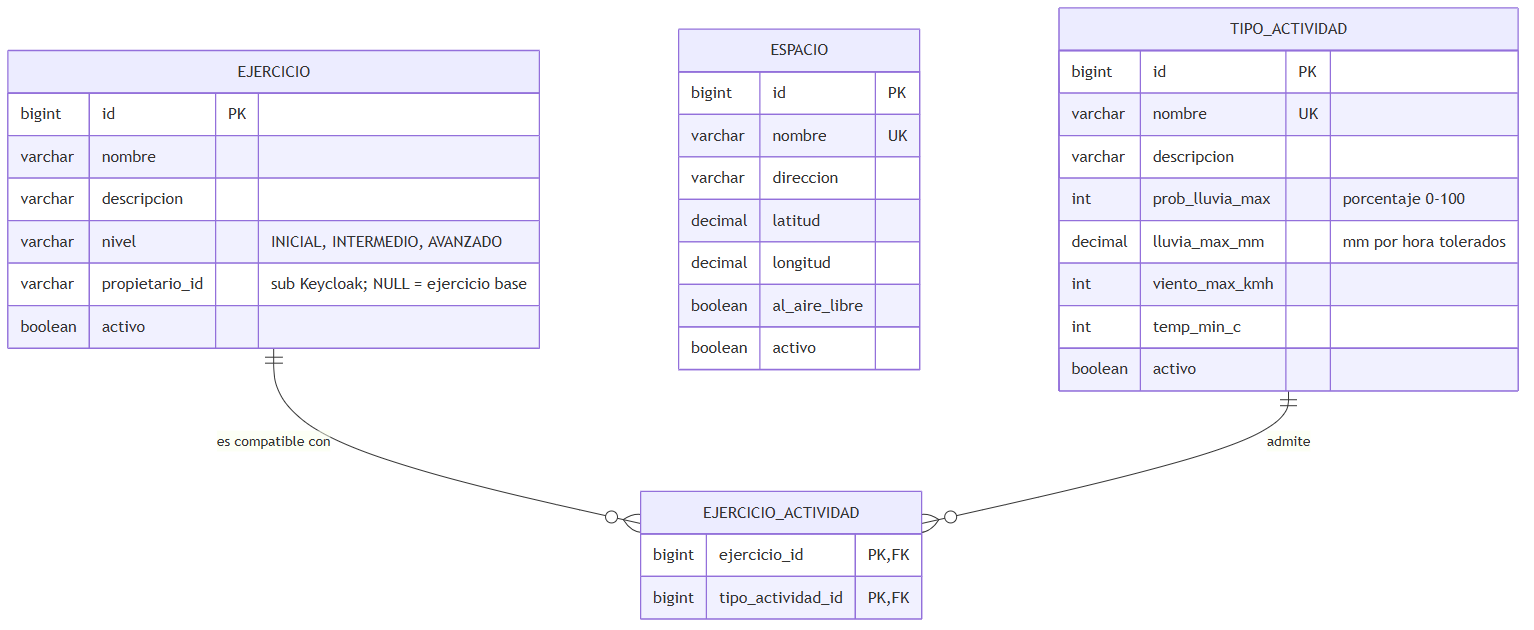
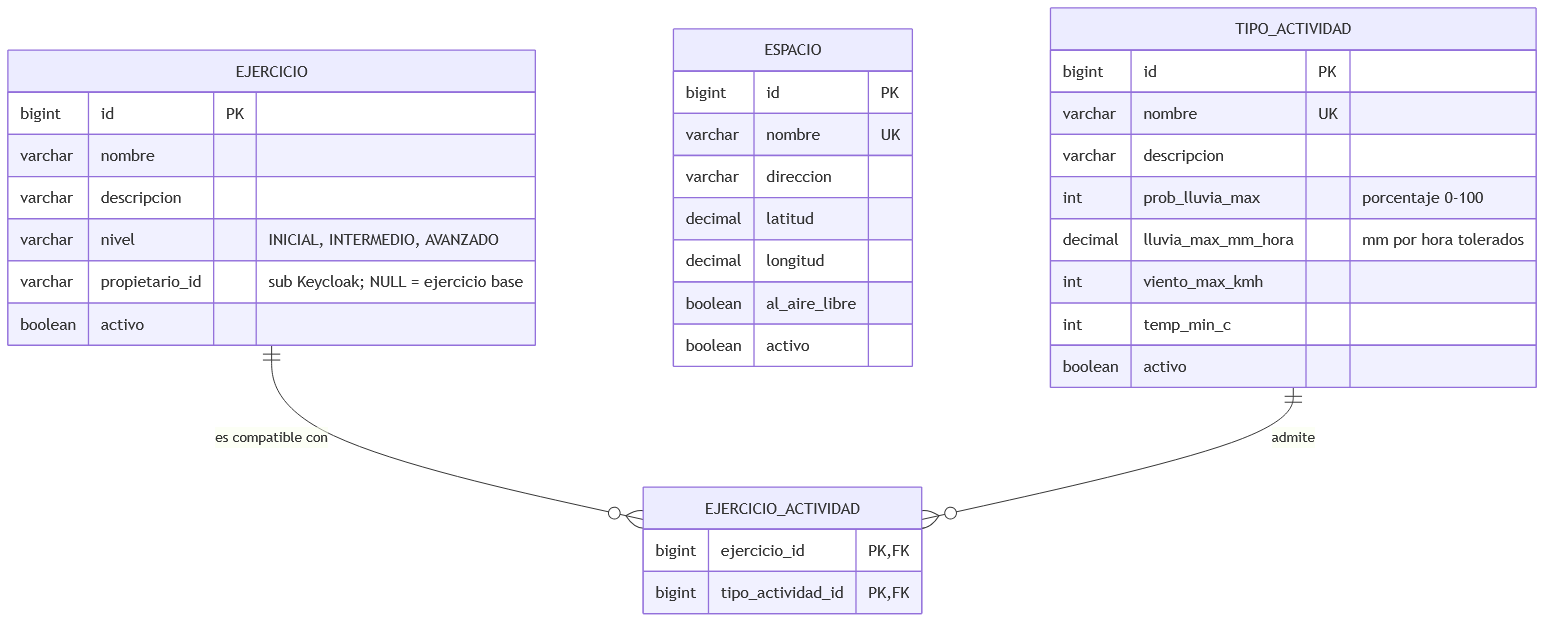
REYNA: nombres de campos de lluvia alineados con la Persona 4
- Actividad: lluviaMaxMm -> lluviaMaxMmHora (columna lluvia_max_mm_hora), obligatorio.
- Pronóstico y escenarios: lluviaMm -> precipitacionMm (precipitacion_mm).
- RN10: margen de EN_RIESGO por mm del 20 % del límite (propuesta y V2).
- DER de actividades y clases regenerados; colección de Postman actualizada.

diff --git a/ms-actividades/src/test/java/ar/edu/utn/frc/climafit/actividades/ActividadesTest.java b/ms-actividades/src/test/java/ar/edu/utn/frc/climafit/actividades/ActividadesTest.java
@@ -21,7 +21,7 @@ class ActividadesTest extends PruebaIntegracion {
 
     private static final String PILATES = """
             {"nombre": "Pilates", "descripcion": "Pilates de suelo al aire libre",
-             "probLluviaMax": 60, "lluviaMaxMm": 0.5, "vientoMaxKmh": 25, "tempMinC": 12}
+             "probLluviaMax": 60, "lluviaMaxMmHora": 0.5, "vientoMaxKmh": 25, "tempMinC": 12}
             """;
 
     @Autowired
@@ -50,7 +50,7 @@ class ActividadesTest extends PruebaIntegracion {
                 .andExpect(status().isOk())
                 .andExpect(jsonPath("$.nombre").value("Yoga"))
                 .andExpect(jsonPath("$.probLluviaMax").value(80))
-                .andExpect(jsonPath("$.lluviaMaxMm").value(0.5))
+                .andExpect(jsonPath("$.lluviaMaxMmHora").value(0.5))
                 .andExpect(jsonPath("$.vientoMaxKmh").value(35))
                 .andExpect(jsonPath("$.tempMinC").value(5))
                 .andExpect(jsonPath("$.activo").value(true));
@@ -66,7 +66,7 @@ class ActividadesTest extends PruebaIntegracion {
                 .andExpect(status().isOk())
                 .andExpect(jsonPath("$.nombre").value("Patinaje"))
                 .andExpect(jsonPath("$.probLluviaMax").value(80))
-                .andExpect(jsonPath("$.lluviaMaxMm").value(0.1))
+                .andExpect(jsonPath("$.lluviaMaxMmHora").value(0.1))
                 .andExpect(jsonPath("$.vientoMaxKmh").value(60));
     }
 
@@ -111,19 +111,19 @@ class ActividadesTest extends PruebaIntegracion {
     @Test
     void criteriosInvalidosResponden400() throws Exception {
         String invalida = """
-                {"nombre": "Invalida", "descripcion": "x", "probLluviaMax": 150, "lluviaMaxMm": -1,
+                {"nombre": "Invalida", "descripcion": "x", "probLluviaMax": 150, "lluviaMaxMmHora": -1,
                  "vientoMaxKmh": -5, "tempMinC": 5}
                 """;
         mvc.perform(post("/actividades").with(admin()).contentType(MediaType.APPLICATION_JSON).content(invalida))
                 .andExpect(status().isBadRequest())
                 .andExpect(jsonPath("$.codigo").value("DATOS_INVALIDOS"))
-                .andExpect(jsonPath("$.campos.lluviaMaxMm").exists());
+                .andExpect(jsonPath("$.campos.lluviaMaxMmHora").exists());
     }
 
     @Test
     void unNombreRepetidoResponde400() throws Exception {
         String repetida = """
-                {"nombre": "yoga", "probLluviaMax": 10, "lluviaMaxMm": 1, "vientoMaxKmh": 10, "tempMinC": 10}
+                {"nombre": "yoga", "probLluviaMax": 10, "lluviaMaxMmHora": 1, "vientoMaxKmh": 10, "tempMinC": 10}
                 """;
         mvc.perform(post("/actividades").with(admin()).contentType(MediaType.APPLICATION_JSON).content(repetida))
                 .andExpect(status().isBadRequest())
@@ -134,13 +134,13 @@ class ActividadesTest extends PruebaIntegracion {
     void elAdminActualizaLosCriterios() throws Exception {
         String yogaCambiado = """
                 {"nombre": "Yoga", "descripcion": "Yoga al aire libre",
-                 "probLluviaMax": 70, "lluviaMaxMm": 1.0, "vientoMaxKmh": 20, "tempMinC": 14}
+                 "probLluviaMax": 70, "lluviaMaxMmHora": 1.0, "vientoMaxKmh": 20, "tempMinC": 14}
                 """;
         mvc.perform(put("/actividades/1").with(admin()).contentType(MediaType.APPLICATION_JSON)
                         .content(yogaCambiado))
                 .andExpect(status().isOk())
                 .andExpect(jsonPath("$.probLluviaMax").value(70))
-                .andExpect(jsonPath("$.lluviaMaxMm").value(1.0))
+                .andExpect(jsonPath("$.lluviaMaxMmHora").value(1.0))
                 .andExpect(jsonPath("$.tempMinC").value(14));
     }
 

diff --git a/ms-actividades/src/main/java/ar/edu/utn/frc/climafit/actividades/entity/TipoActividad.java b/ms-actividades/src/main/java/ar/edu/utn/frc/climafit/actividades/entity/TipoActividad.java
@@ -14,7 +14,7 @@ import java.math.BigDecimal;
  * si una clase es apta (RN10):
  * <ul>
  *   <li>lluvia: la clase no se dicta si es probable que llueva ({@code probLluviaMax}, en %) y además
- *       llueve más de lo que la actividad tolera ({@code lluviaMaxMm}, en mm por hora);</li>
+ *       llueve más de lo que la actividad tolera ({@code lluviaMaxMmHora}, en mm por hora);</li>
  *   <li>viento máximo y temperatura mínima.</li>
  * </ul>
  */
@@ -37,8 +37,8 @@ public class TipoActividad {
     private Integer probLluviaMax;
 
     /** Milímetros de lluvia por hora que la actividad tolera (0 = no tolera ninguna lluvia). */
-    @Column(name = "lluvia_max_mm", nullable = false, precision = 4, scale = 1)
-    private BigDecimal lluviaMaxMm;
+    @Column(name = "lluvia_max_mm_hora", nullable = false, precision = 4, scale = 1)
+    private BigDecimal lluviaMaxMmHora;
 
     @Column(name = "viento_max_kmh", nullable = false)
     private Integer vientoMaxKmh;
@@ -53,18 +53,18 @@ public class TipoActividad {
     protected TipoActividad() {
     }
 
-    public TipoActividad(String nombre, String descripcion, Integer probLluviaMax, BigDecimal lluviaMaxMm,
+    public TipoActividad(String nombre, String descripcion, Integer probLluviaMax, BigDecimal lluviaMaxMmHora,
                          Integer vientoMaxKmh, Integer tempMinC) {
-        actualizar(nombre, descripcion, probLluviaMax, lluviaMaxMm, vientoMaxKmh, tempMinC);
+        actualizar(nombre, descripcion, probLluviaMax, lluviaMaxMmHora, vientoMaxKmh, tempMinC);
         this.activo = Boolean.TRUE;
     }
 
-    public void actualizar(String nombre, String descripcion, Integer probLluviaMax, BigDecimal lluviaMaxMm,
+    public void actualizar(String nombre, String descripcion, Integer probLluviaMax, BigDecimal lluviaMaxMmHora,
                            Integer vientoMaxKmh, Integer tempMinC) {
         this.nombre = nombre;
         this.descripcion = descripcion;
         this.probLluviaMax = probLluviaMax;
-        this.lluviaMaxMm = lluviaMaxMm;
+        this.lluviaMaxMmHora = lluviaMaxMmHora;
         this.vientoMaxKmh = vientoMaxKmh;
         this.tempMinC = tempMinC;
     }
@@ -90,7 +90,7 @@ public class TipoActividad {
     }
 
     public BigDecimal getLluviaMaxMm() {
-        return lluviaMaxMm;
+        return lluviaMaxMmHora;
     }
 
     public Integer getVientoMaxKmh() {

diff --git a/ms-actividades/src/main/java/ar/edu/utn/frc/climafit/actividades/service/ActividadService.java b/ms-actividades/src/main/java/ar/edu/utn/frc/climafit/actividades/service/ActividadService.java
@@ -41,7 +41,7 @@ public class ActividadService {
             throw nombreDuplicado();
         }
         TipoActividad actividad = new TipoActividad(pedido.nombre(), pedido.descripcion(),
-                pedido.probLluviaMax(), pedido.lluviaMaxMm(), pedido.vientoMaxKmh(), pedido.tempMinC());
+                pedido.probLluviaMax(), pedido.lluviaMaxMmHora(), pedido.vientoMaxKmh(), pedido.tempMinC());
         return ActividadResponse.de(repositorio.save(actividad));
     }
 
@@ -51,7 +51,7 @@ public class ActividadService {
             throw nombreDuplicado();
         }
         actividad.actualizar(pedido.nombre(), pedido.descripcion(), pedido.probLluviaMax(),
-                pedido.lluviaMaxMm(), pedido.vientoMaxKmh(), pedido.tempMinC());
+                pedido.lluviaMaxMmHora(), pedido.vientoMaxKmh(), pedido.tempMinC());
         return ActividadResponse.de(actividad);
     }
 

diff --git a/ms-actividades/src/main/java/ar/edu/utn/frc/climafit/actividades/dto/ActividadRequest.java b/ms-actividades/src/main/java/ar/edu/utn/frc/climafit/actividades/dto/ActividadRequest.java
@@ -13,13 +13,13 @@ import java.math.BigDecimal;
 
 /**
  * Cuerpo de POST y PUT /actividades. {@code probLluviaMax}: probabilidad (%) a partir de la cual se
- * considera que va a llover; {@code lluviaMaxMm}: milímetros por hora que la actividad tolera.
+ * considera que va a llover; {@code lluviaMaxMmHora}: milímetros por hora que la actividad tolera.
  */
 public record ActividadRequest(
         @NotBlank @Size(max = 100) String nombre,
         @Size(max = 500) String descripcion,
         @NotNull @Min(0) @Max(100) Integer probLluviaMax,
-        @NotNull @DecimalMin("0.0") @DecimalMax("999.9") @Digits(integer = 3, fraction = 1) BigDecimal lluviaMaxMm,
+        @NotNull @DecimalMin("0.0") @DecimalMax("999.9") @Digits(integer = 3, fraction = 1) BigDecimal lluviaMaxMmHora,
         @NotNull @Min(0) Integer vientoMaxKmh,
         @NotNull Integer tempMinC) {
 }

diff --git a/ms-actividades/src/main/java/ar/edu/utn/frc/climafit/actividades/dto/ActividadResponse.java b/ms-actividades/src/main/java/ar/edu/utn/frc/climafit/actividades/dto/ActividadResponse.java
@@ -10,7 +10,7 @@ public record ActividadResponse(
         String nombre,
         String descripcion,
         Integer probLluviaMax,
-        BigDecimal lluviaMaxMm,
+        BigDecimal lluviaMaxMmHora,
         Integer vientoMaxKmh,
         Integer tempMinC,
         Boolean activo) {

diff --git a/docs/propuesta.md b/docs/propuesta.md
@@ -225,8 +225,8 @@ Prioridad: **Alta** = imprescindible para el proceso central. **Media** = comple
 **RN10 — Evaluación del pronóstico**
 - Condición: se evalúa el pronóstico de las horas que dura la clase.
 - Comportamiento: se toman la mayor probabilidad de lluvia, la mayor lluvia en mm por hora, el mayor viento y la menor temperatura de esas horas, y si hay tormenta eléctrica. La lluvia solo cuenta si su probabilidad alcanza la de la actividad (`prob_lluvia_max`); por debajo, se considera que no va a llover.
-  - **NO_APTA:** la lluvia cuenta y supera los mm por hora que tolera la actividad (`lluvia_max_mm`), se supera el viento máximo, la temperatura queda por debajo de la mínima o hay tormenta eléctrica.
-  - **EN_RIESGO:** ningún límite se supera, pero algún valor queda cerca: la lluvia cuenta y supera la mitad de los mm tolerados, el viento queda a 10 km/h o menos del máximo, o la temperatura queda a 2 °C o menos de la mínima.
+  - **NO_APTA:** la lluvia cuenta y supera los mm por hora que tolera la actividad (`lluvia_max_mm_hora`), se supera el viento máximo, la temperatura queda por debajo de la mínima o hay tormenta eléctrica.
+  - **EN_RIESGO:** ningún límite se supera, pero algún valor queda cerca: la lluvia cuenta y llega al 80 % de los mm tolerados (margen del 20 %; con límite 0 no hay zona de riesgo), el viento queda a 10 km/h o menos del máximo, o la temperatura queda a 2 °C o menos de la mínima.
   - **APTA:** en cualquier otro caso.
 - Funcionalidad: F11.
 
@@ -650,7 +650,7 @@ erDiagram
     varchar nombre UK
     varchar descripcion
     int prob_lluvia_max "porcentaje 0-100"
-    decimal lluvia_max_mm "mm por hora tolerados"
+    decimal lluvia_max_mm_hora "mm por hora tolerados"
     int viento_max_kmh
     int temp_min_c
     boolean activo
@@ -729,7 +729,7 @@ erDiagram
     varchar resultado "APTA, EN_RIESGO, NO_APTA, FALLIDA"
     varchar motivo
     int prob_lluvia
-    decimal lluvia_mm
+    decimal precipitacion_mm
     int viento_kmh
     int temperatura_c
     boolean tormenta
